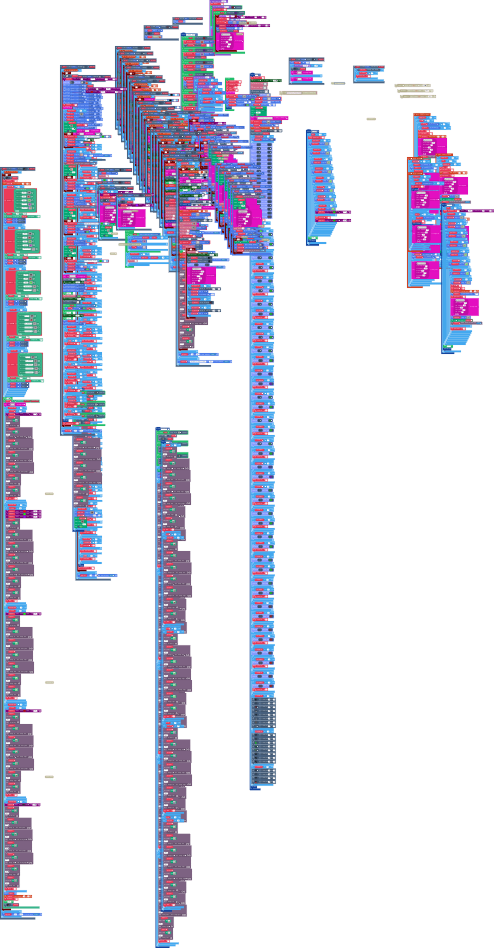
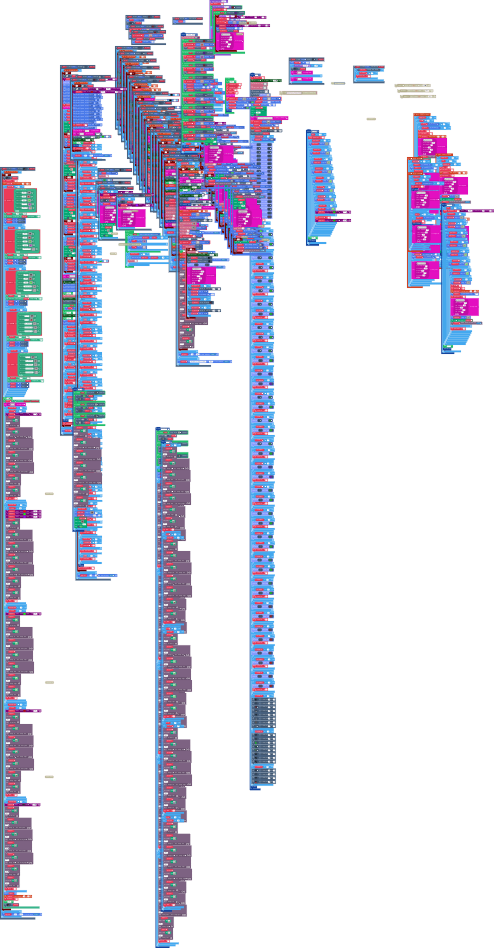
Significantly Lowered Lag!

Changed region(s): [[0.2429, 0.0, 0.5162, 0.2141], [0.1215, 0.0612, 0.2126, 0.4589]]

diff --git a/main.ts b/main.ts
@@ -5083,6 +5083,20 @@ sprites.onOverlap(SpriteKind.Boss2, SpriteKind.Setup, function (sprite, otherSpr
         })
     })
 })
+scene.onOverlapTile(SpriteKind.Boss2, assets.tile`myTile35`, function (sprite, location) {
+    mySprite8 = sprites.create(img`
+        . . . . . . . . 
+        . . . 5 5 . . . 
+        . . . 5 5 . . . 
+        . . 5 4 4 5 . . 
+        . . 5 4 4 5 . . 
+        . 5 4 f f 4 5 . 
+        . 5 4 f f 4 5 . 
+        5 4 f f f f 4 5 
+        `, SpriteKind.Spike)
+    tiles.placeOnTile(mySprite8, location)
+    mySprite8.lifespan = 50
+})
 scene.onHitWall(SpriteKind.Shot, function (sprite, location) {
     sprites.destroy(sprite)
 })
@@ -13571,6 +13585,20 @@ function Phased () {
         )
     }
 }
+scene.onOverlapTile(SpriteKind.Player, assets.tile`myTile35`, function (sprite, location) {
+    mySprite8 = sprites.create(img`
+        . . . . . . . . 
+        . . . 5 5 . . . 
+        . . . 5 5 . . . 
+        . . 5 4 4 5 . . 
+        . . 5 4 4 5 . . 
+        . 5 4 f f 4 5 . 
+        . 5 4 f f 4 5 . 
+        5 4 f f f f 4 5 
+        `, SpriteKind.Spike)
+    tiles.placeOnTile(mySprite8, location)
+    mySprite8.lifespan = 50
+})
 scene.onOverlapTile(SpriteKind.Player, assets.tile`myTile30`, function (sprite, location) {
     if (controller.A.isPressed()) {
         timer.after(1, function () {
@@ -13619,6 +13647,7 @@ scene.onOverlapTile(SpriteKind.Player, assets.tile`myTile30`, function (sprite, 
     }
 })
 function Simulate_Spikes () {
+    profilelife.setInvisible(false)
     for (let value of tiles.getTilesByType(assets.tile`myTile64`)) {
         mySprite2 = sprites.create(img`
             . . . 5 5 . . . 
@@ -13684,19 +13713,6 @@ function Simulate_Spikes () {
             . . . . . . . . 
             . . . . . . . . 
             `, SpriteKind.BuzzSaw)
-        tiles.placeOnTile(mySprite2, value)
-    }
-    for (let value of tiles.getTilesByType(assets.tile`myTile35`)) {
-        mySprite2 = sprites.create(img`
-            . . . . . . . . 
-            . . . 5 5 . . . 
-            . . . 5 5 . . . 
-            . . 5 4 4 5 . . 
-            . . 5 4 4 5 . . 
-            . 5 4 f f 4 5 . 
-            . 5 4 f f 4 5 . 
-            5 4 f f f f 4 5 
-            `, SpriteKind.Spike)
         tiles.placeOnTile(mySprite2, value)
     }
     for (let value of tiles.getTilesByType(assets.tile`myTile71`)) {
@@ -13878,6 +13894,7 @@ let Level4Done = 0
 let Level3Done = 0
 let Level2Done = 0
 let Level1Done = 0
+let mySprite8: Sprite = null
 let CycleLevel = 0
 let mySprite4: Sprite = null
 let LevelsDone = 0
@@ -13895,6 +13912,7 @@ let Phase = 0
 let Orb = 0
 let Level5Done = 0
 let Level15Done = 0
+pause(1000)
 Level15Done = 2
 Level5Done = 2
 Orb = 1
